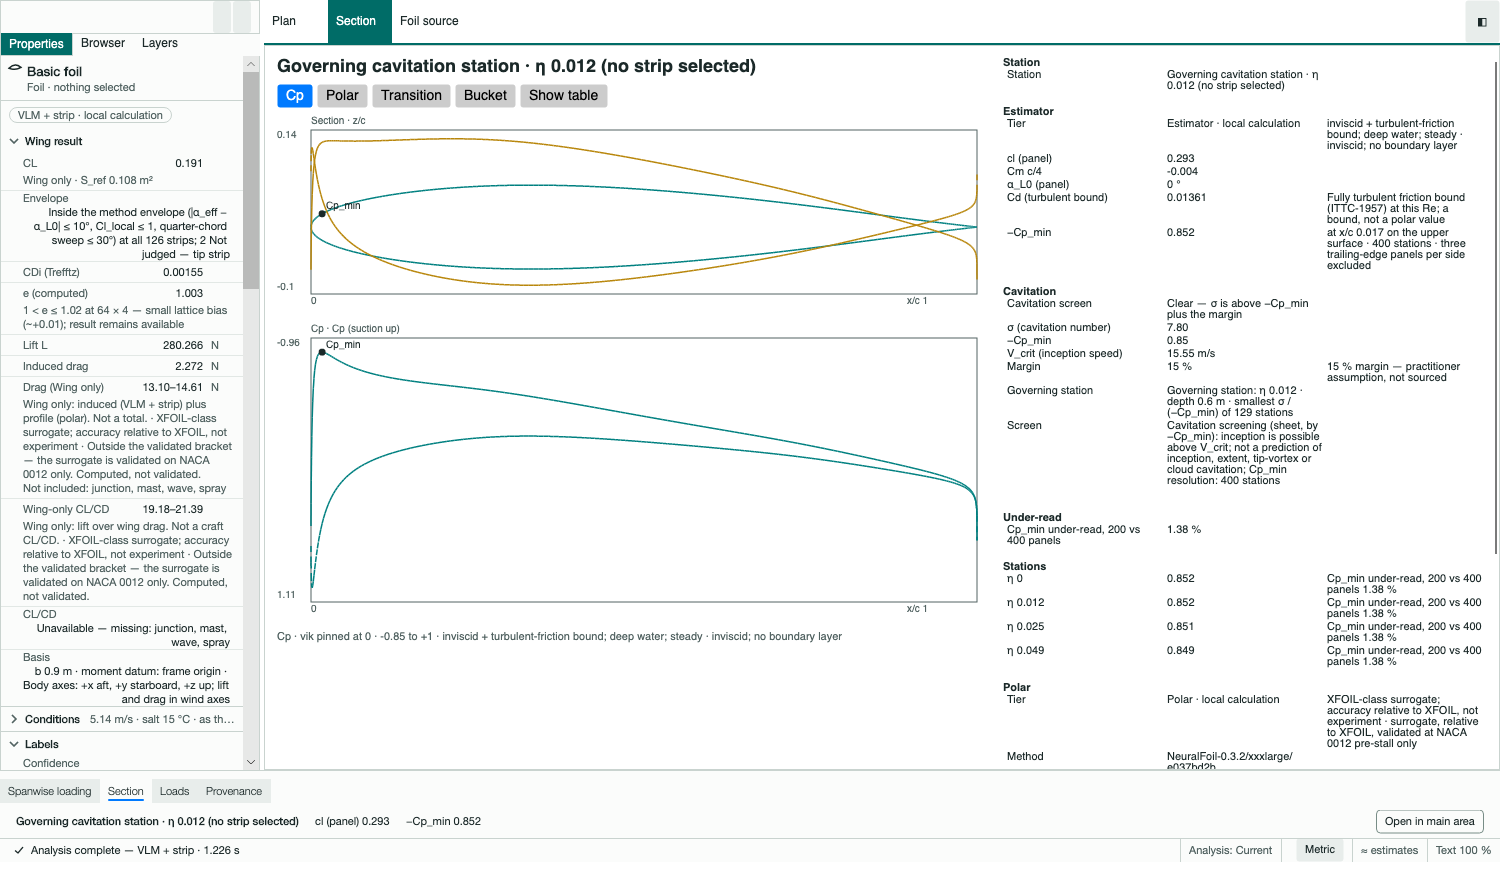
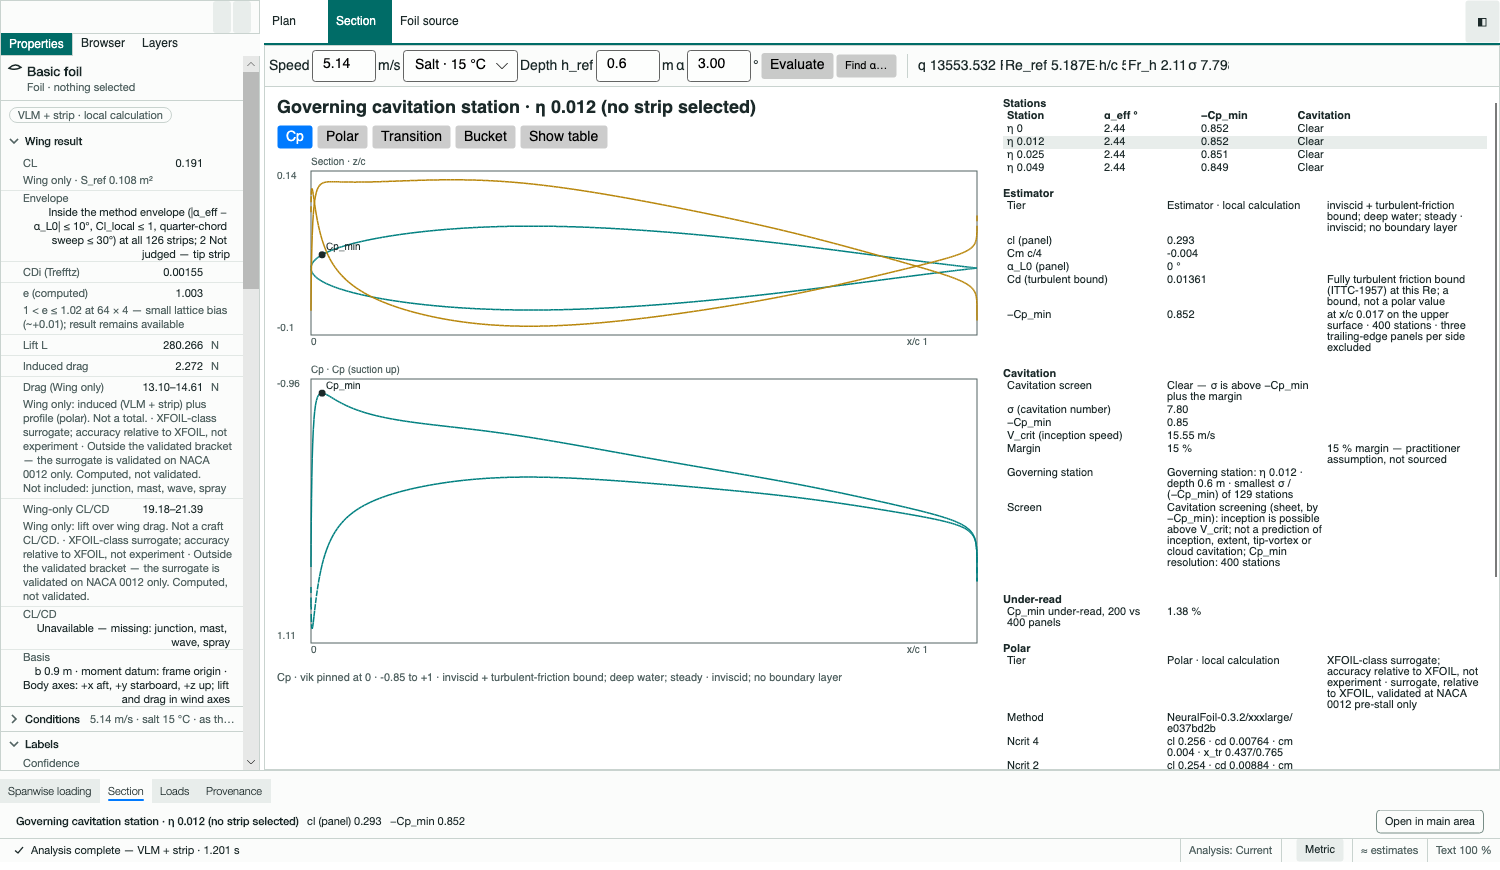
docs(proof): SMA re-captures B and C, groups note

diff --git a/docs/proof/sma/captures.md b/docs/proof/sma/captures.md
@@ -23,11 +23,12 @@ VLM + strip run at 5.14 m/s, depth 0.6 m, alpha 3. Mockup states are in `docs/mo
 | State | Built | Mockup | Same | Differs |
 |---|---|---|---|---|
 | A | `01-cad-plan-chip-strip.png` | `01-cad-plan-chip-strip.png` | Chips in a band under the planform, each on its station line; the tip chip selected (heavier line and outline); tabs Plan, Section, Foil source. | The chip text is the section name as built ("section-a"; the mockup says "NACA 0012"). The harness has no window title bar. |
-| B | `02-analysis-section-selected.png` | `02-analysis-section-selected.png` | Header "Selected strip · η 1"; chart selector (Cp, Polar, Transition, Bucket, Show table); the profile with Cp_min marker; the Cp chart; groups on the right; the bottom Section tab is one line with "Open in main area". | The right column is the existing group tables (Station, Estimator, Cavitation, Under-read, Stations, Polar), not the mockup's compact Stations table; the profile has no colour ramp. See "Open".
-| C | `03-analysis-section-governing.png` | `03-analysis-section-governing.png` | Header "Governing cavitation station · η 0.012 (no strip selected)"; same layout; summary line follows the header. | As B. |
+| B | `02-analysis-section-selected.png` | `02-analysis-section-selected.png` | Header "Selected strip · η 1"; chart selector (Cp, Polar, Transition, Bucket, Show table); the profile with Cp_min marker; the Cp chart; groups on the right; the bottom Section tab is one line with "Open in main area". | The conditions band is above the document (Evaluate and Find α work from here). The Stations table has the four columns with the shown row highlighted, but no "5 of 64" count and, here, all rows read Clear; the right column also keeps the Estimator and Under-read groups the mockup does not draw (see "Groups"); the profile has no colour ramp. |
+| C | `03-analysis-section-governing.png` | `03-analysis-section-governing.png` | Header "Governing cavitation station · η 0.012 (no strip selected)"; same layout; the governing row is highlighted; summary line follows the header. | As B. |
 | D | `04-analysis-plan-compact-summary.png` | `04-analysis-plan-compact-summary.png` | Plan with the chip strip under the loading view; bottom panel is the one summary line (station, cl (panel), -Cp_min, "Open in main area"). | The built Plan shows the app's four views (Plan, 3D, Side, Front); the mockup draws Plan plus 3D only, by its own note. |
 
-## Open
+## Groups
 
-- The mockup draws the conditions band (Speed, Water, Depth, alpha, Evaluate, Find alpha) above the Section document. In the build the band is part of the Plan document, so it does not show over the Section document (B and C). Evaluate and Find alpha need the Plan tab. Moving the band above all documents is a shell layout change outside SMA's owned paths; it needs a decision.
-- The mockup's Stations table (five columns, "5 of 64") is not built; the document shows the groups `SectionDisplay` already produces. New table content would be a new design for `SectionDisplay`, not owned.
+- Dropped from the document: the "Station" name row (the header says it) and the text "Stations" group (the table replaces it; the data stays in `SectionView.Groups` for the Analysis checks).
+- Kept although the mockup does not draw them: "Estimator" (cl (panel), Cm, alpha_L0, cd bound, the Cp_min location note, and the source of the summary line) and "Under-read" (carries the Provisional flag). Dropping them would hide values and a label with no other home in the document; say so if you want them gone.
+- Table headers: "Station", "α_eff °" and "Cavitation" have no DESIGN.md COPY row (they are the mockup's words); "−Cp_min" is `Labels.CpMinLabel` (COPY-360). The Cavitation cell is the leading word of COPY-301 to COPY-303 ("Clear", "Inside the margin", "Possible"); "Unavailable" for an unavailable or undefined station. Rows not solved at 400 panels carry COPY-384 under the row.
